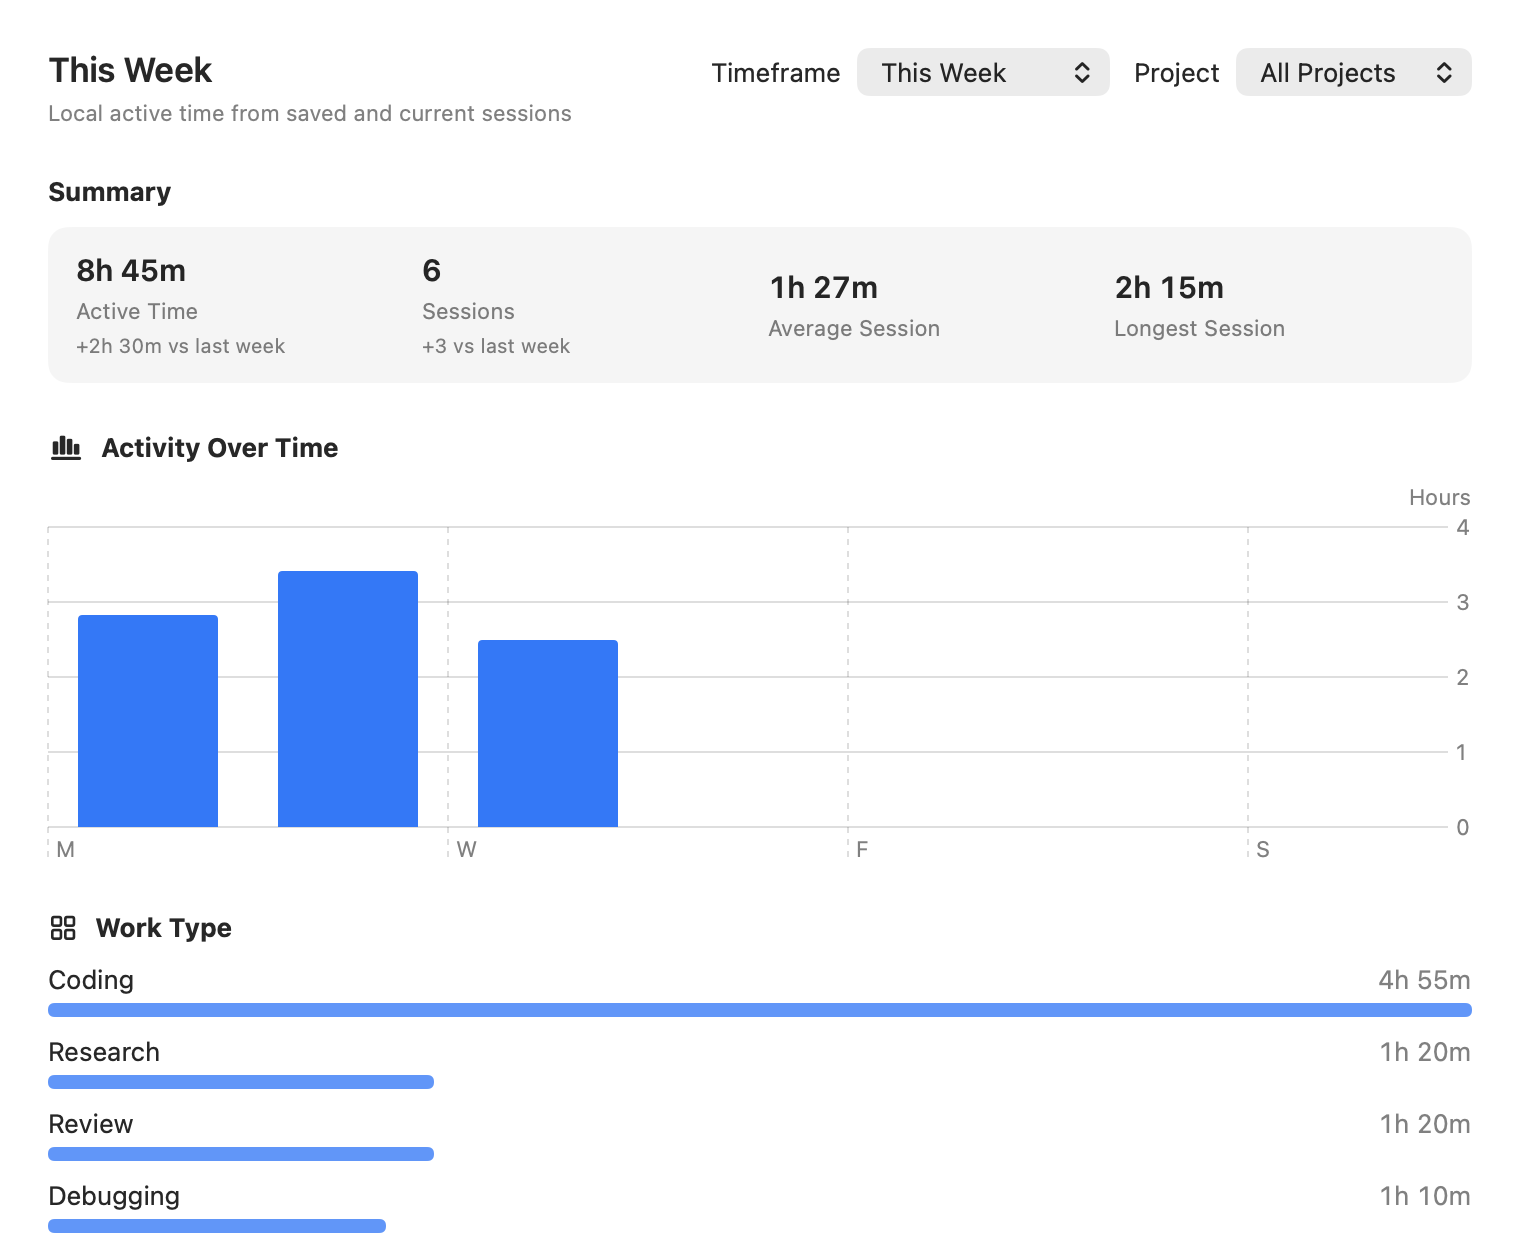
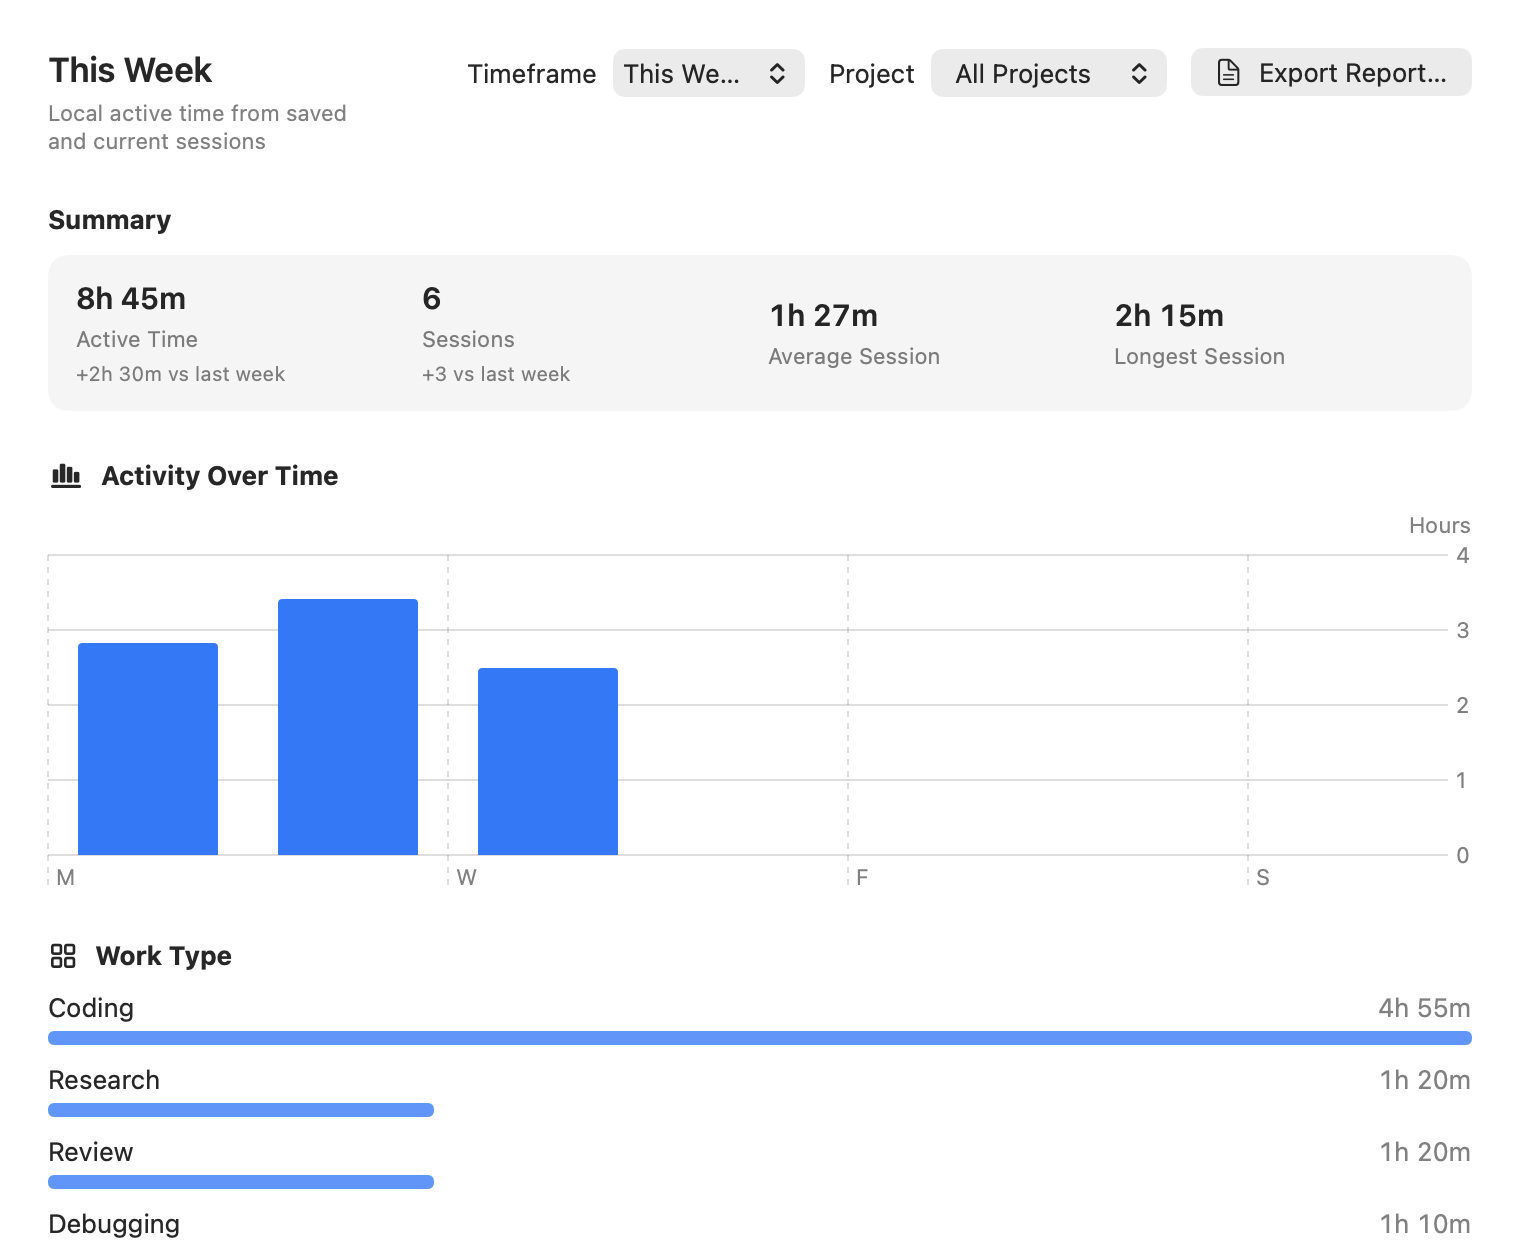
docs: document csv and markdown exports

diff --git a/README.md b/README.md
@@ -39,6 +39,9 @@ read-only repository, pull request, and developer-tool metadata.
 - Provides richer local Insights for active time, sessions, projects, work types,
   developer-tool participation, Git activity, and GitHub context with native
   Swift Charts.
+- Exports the currently filtered History as standard UTF-8 CSV.
+- Exports the currently selected Insights timeframe and project as a deterministic
+  local Markdown report.
 - Exports and restores a versioned JSON backup of local CodePulse state.
 
 ## Download and install
@@ -101,6 +104,19 @@ projects remain in CodePulse and are marked **Needs Relink** rather than being
 deleted or silently bound to another folder. Restore is blocked while the
 current installation has a running, paused, or finishing session.
 
+## CSV and Markdown exports
+
+Use **History → Export CSV…** to save exactly the completed sessions matching the
+current History search and filters. The export uses standard UTF-8 CSV and a
+user-selected local destination; an active session is not included.
+
+Use **Insights → Export Report…** to save the currently selected timeframe and
+project as a deterministic Markdown report. The report uses the existing local
+Insights summary and contains no AI-generated commentary or cloud data.
+
+Both exports are created locally at the destination you choose. CodePulse does
+not upload CSV or Markdown exports.
+
 ## External local control
 
 `codepulsectl` is a small local controller. It talks to the running CodePulse
@@ -158,7 +174,8 @@ CodePulse stores its state as JSON under the user's Application Support
 directory. Session notes, project paths, settings, session presets, automation
 rules, configured application bundle identifiers, active automation ownership,
 Git snapshots, GitHub context snapshots, developer-tool session metadata, and
-active session state stay on the Mac unless the user exports or shares a backup.
+active session state stay on the Mac unless the user explicitly exports or
+shares selected data or a backup.
 Developer-tool metadata is limited to the tool name,
 external session identifier, working directory, timestamps, lifecycle event
 count, and optional model/profile labels. When Session Automation is enabled,

diff --git a/PRIVACY.md b/PRIVACY.md
@@ -98,6 +98,21 @@ as potentially sensitive. No backup is uploaded to CodePulse or a cloud
 service. A moved project whose bookmark cannot resolve remains stored and is
 shown as needing relinking; CodePulse does not silently retarget it.
 
+## CSV and Markdown exports
+
+History CSV export contains only completed sessions matching the current History
+filters and uses standard UTF-8 at a destination selected by the user. It does
+not include project bookmark data, raw repository paths, control or replay
+ledgers, automation claims, or external developer-tool session identifiers.
+Developer-tool names, model/profile labels, Git aggregates, GitHub repository
+and pull-request snapshots, and user-authored goals/outcomes are included when
+they are part of the selected session context.
+
+Insights Markdown reports contain the currently selected local timeframe and
+project summary and reuse the existing in-memory Insights calculations. Reports
+are deterministic local files; CodePulse does not use AI or upload CSV or
+Markdown exports to a cloud service.
+
 Application automation does not collect or retain unrelated application
 durations, window titles, document names, file names, browser URLs, terminal
 contents, clipboard contents, keyboard or mouse input, screen contents, or
